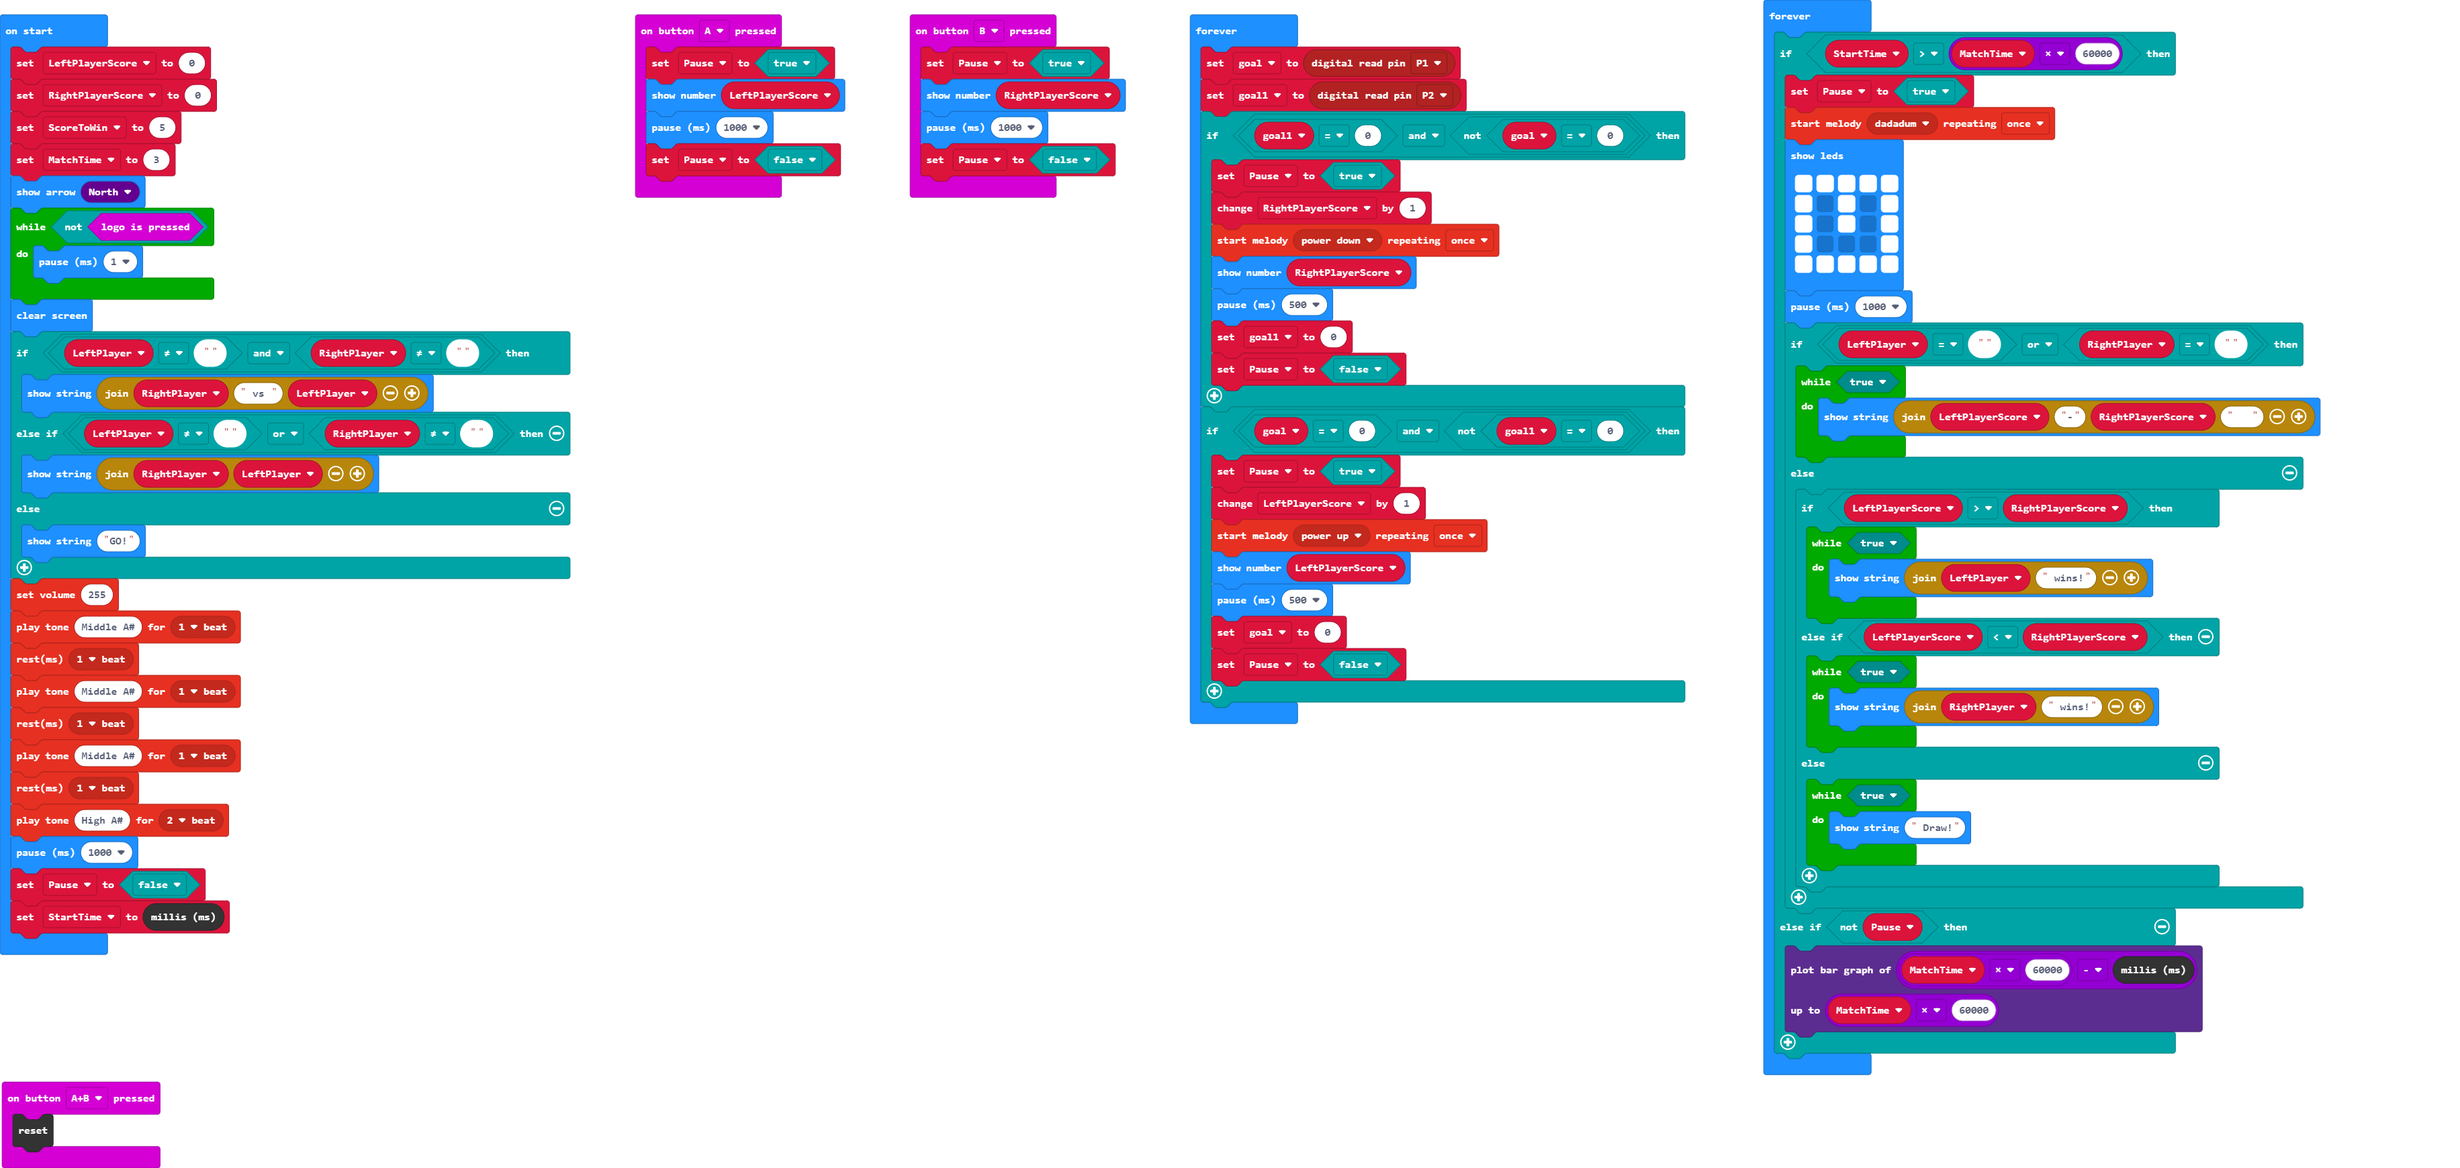
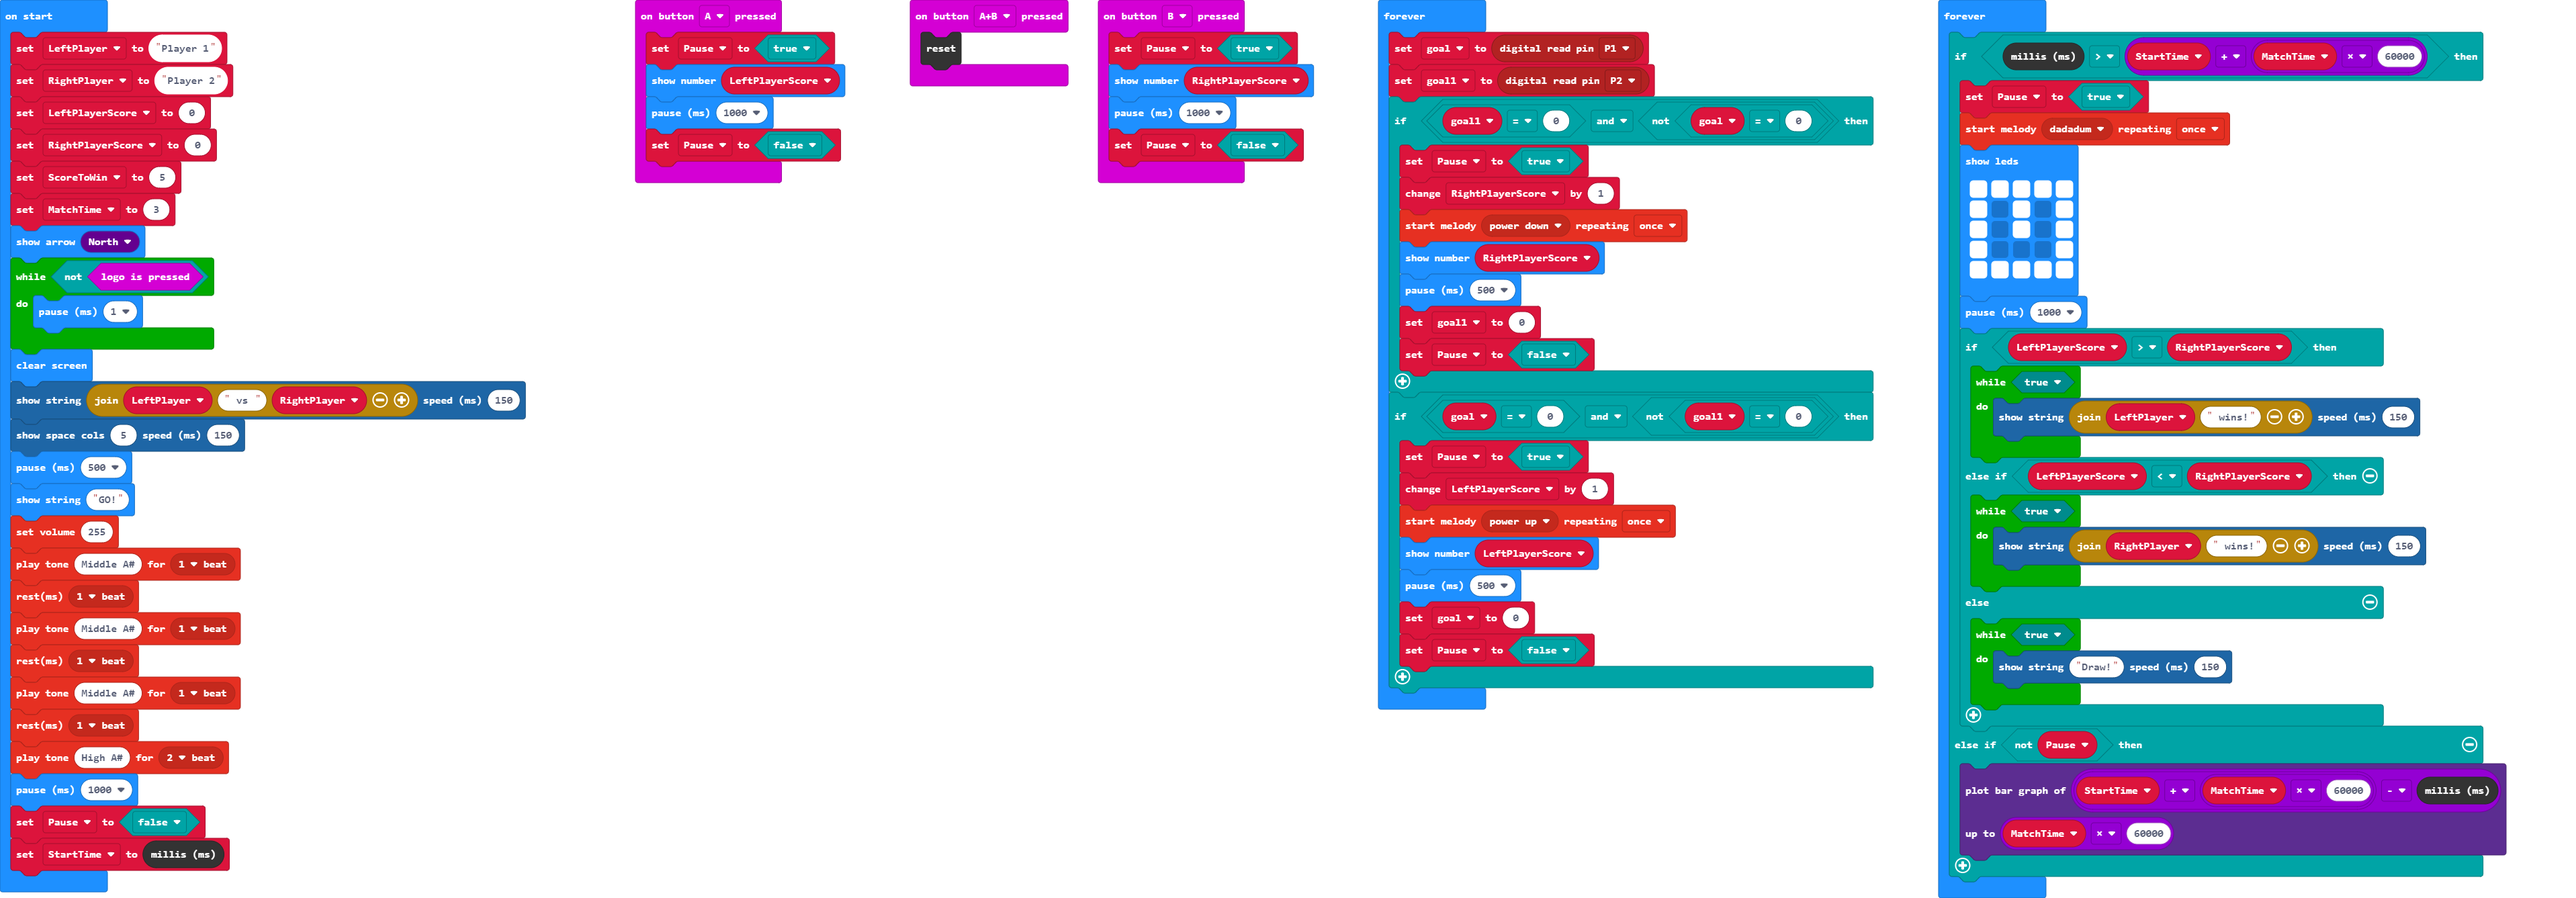
Update pxt.json, main.blocks, main.ts

diff --git a/main.ts b/main.ts
@@ -16,10 +16,10 @@ input.onButtonPressed(Button.B, function () {
 let goal1 = 0
 let goal = 0
 let Pause = false
-let RightPlayer = ""
-let LeftPlayer = ""
 let RightPlayerScore = 0
 let LeftPlayerScore = 0
+let LeftPlayer = "Player 1"
+let RightPlayer = "Player 2"
 LeftPlayerScore = 0
 RightPlayerScore = 0
 let ScoreToWin = 5
@@ -29,13 +29,10 @@ while (!(input.logoIsPressed())) {
     basic.pause(1)
 }
 basic.clearScreen()
-if (LeftPlayer != "" && RightPlayer != "") {
-    basic.showString("" + RightPlayer + " vs " + LeftPlayer)
-} else if (LeftPlayer != "" || RightPlayer != "") {
-    basic.showString("" + RightPlayer + LeftPlayer)
-} else {
-    basic.showString("GO!")
-}
+proportionalFont.showString("" + LeftPlayer + " vs " + RightPlayer, 150)
+proportionalFont.showSpace(5, 150)
+basic.pause(500)
+basic.showString("GO!")
 music.setVolume(255)
 music.playTone(466, music.beat(BeatFraction.Whole))
 music.rest(music.beat(BeatFraction.Whole))
@@ -70,7 +67,7 @@ basic.forever(function () {
     }
 })
 basic.forever(function () {
-    if (StartTime > MatchTime * 60000) {
+    if (control.millis() > StartTime + MatchTime * 60000) {
         Pause = true
         music.startMelody(music.builtInMelody(Melodies.Dadadadum), MelodyOptions.Once)
         basic.showLeds(`
@@ -81,28 +78,22 @@ basic.forever(function () {
             # # # # #
             `)
         basic.pause(1000)
-        if (LeftPlayer == "" || RightPlayer == "") {
+        if (LeftPlayerScore > RightPlayerScore) {
             while (true) {
-                basic.showString("" + LeftPlayerScore + "-" + RightPlayerScore + "   ")
+                proportionalFont.showString("" + LeftPlayer + " wins!", 150)
+            }
+        } else if (LeftPlayerScore < RightPlayerScore) {
+            while (true) {
+                proportionalFont.showString("" + RightPlayer + " wins!", 150)
             }
         } else {
-            if (LeftPlayerScore > RightPlayerScore) {
-                while (true) {
-                    basic.showString("" + LeftPlayer + " wins!")
-                }
-            } else if (LeftPlayerScore < RightPlayerScore) {
-                while (true) {
-                    basic.showString("" + RightPlayer + " wins!")
-                }
-            } else {
-                while (true) {
-                    basic.showString(" Draw!")
-                }
+            while (true) {
+                proportionalFont.showString("Draw!", 150)
             }
         }
     } else if (!(Pause)) {
         led.plotBarGraph(
-        MatchTime * 60000 - control.millis(),
+        StartTime + MatchTime * 60000 - control.millis(),
         MatchTime * 60000
         )
     }
